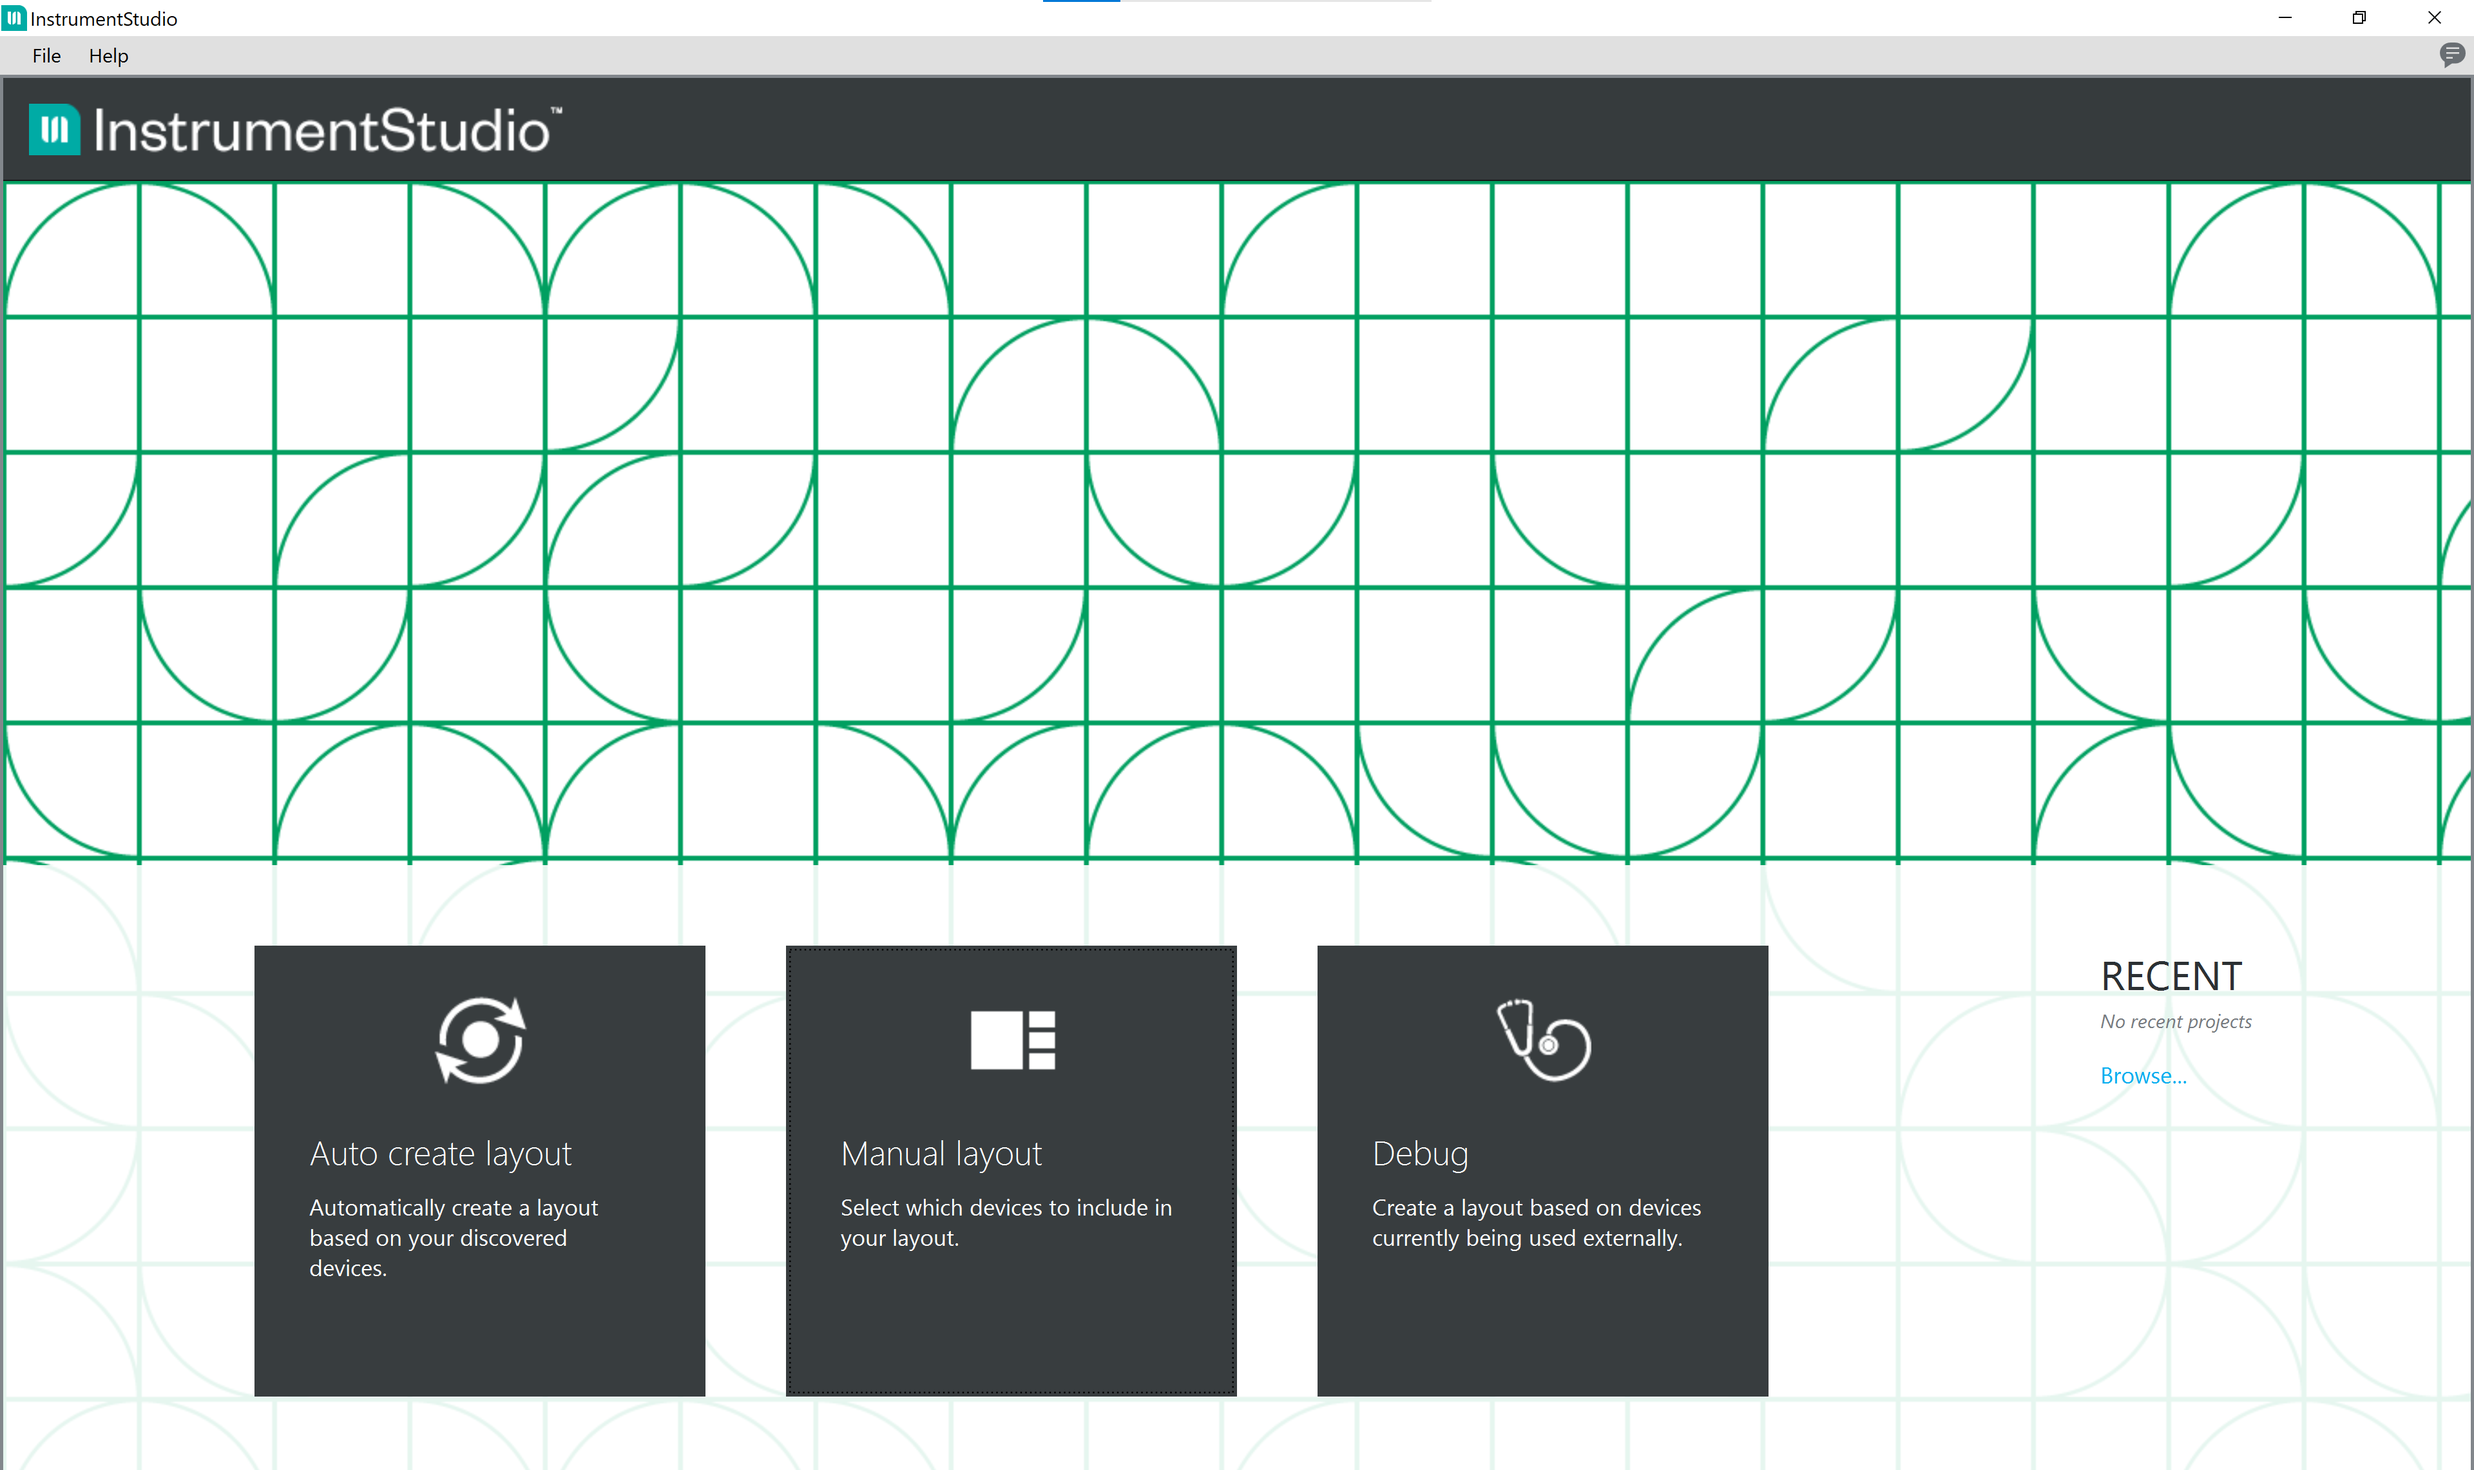
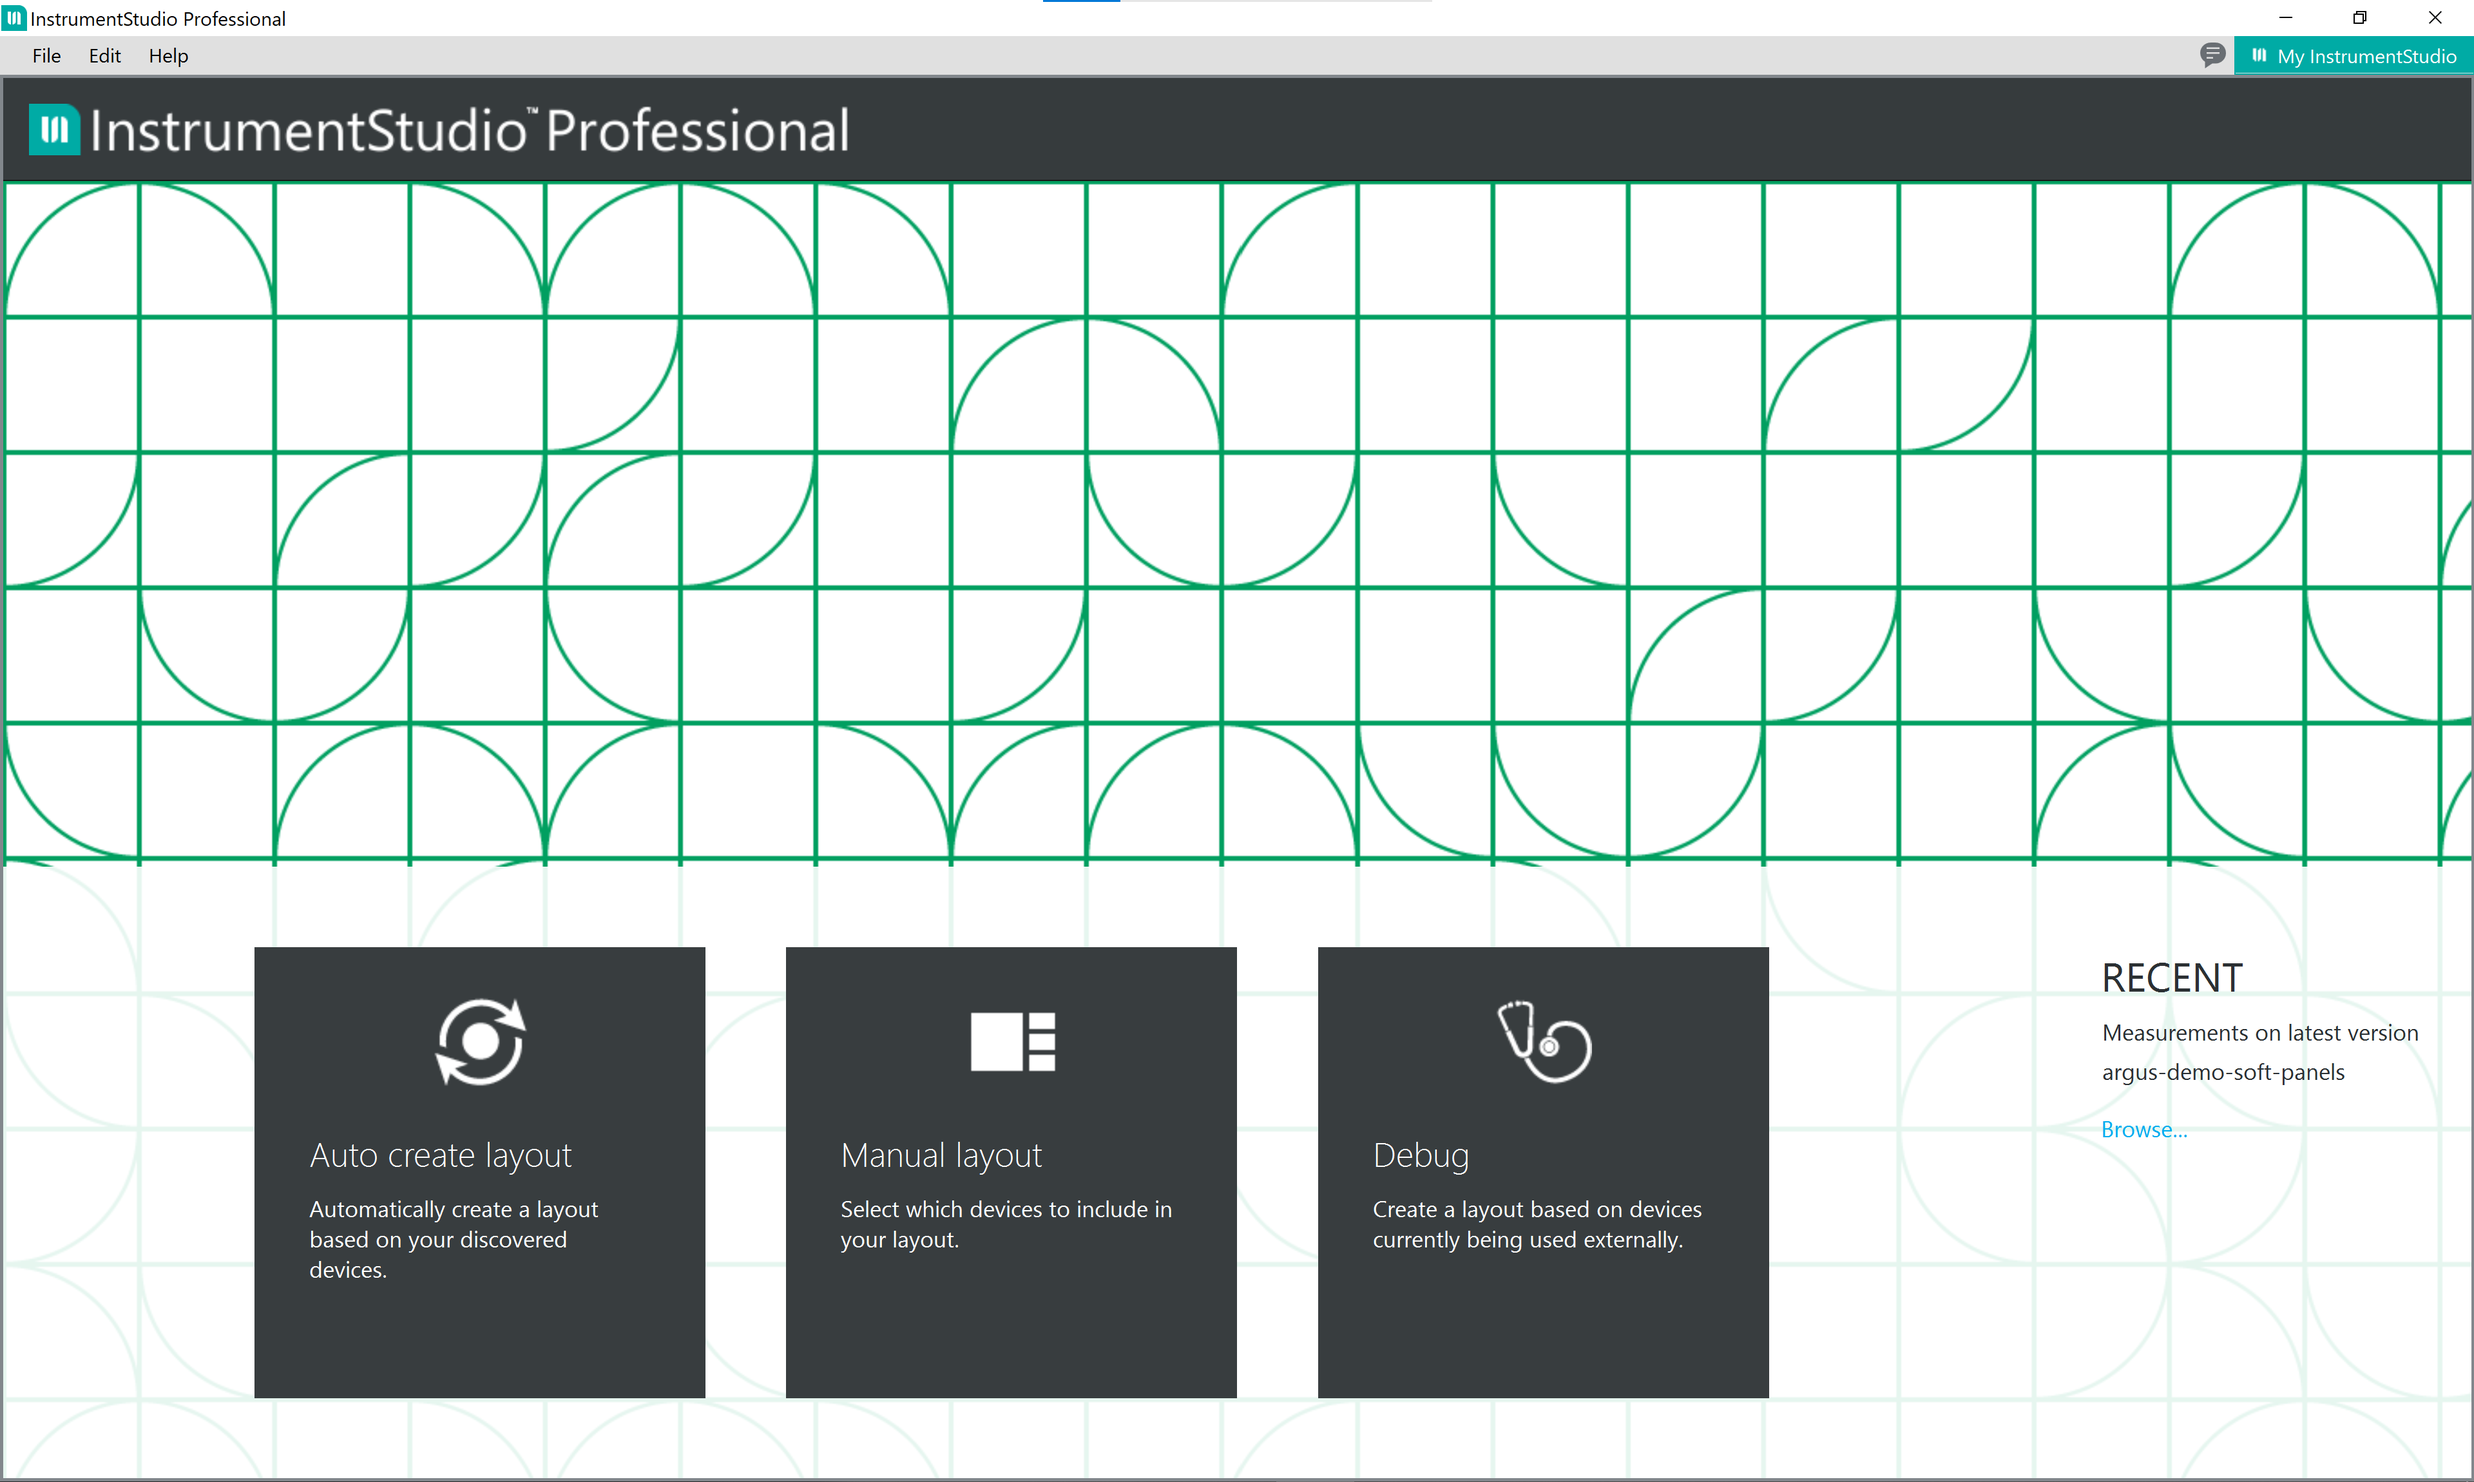
updating documentation

diff --git a/docs/channel-ganging-help.md b/docs/channel-ganging-help.md
@@ -5,7 +5,7 @@ This workflow is applicable for all the Channel Ganging measurements.
 
 ### Adding a measurement panel to InstrumentStudio
 
-1. Open InstrumentStudio
+1. Open InstrumentStudio Pro
    ![alt text](images/instr-studio-open-is.png)
 
 2. Click Manual Layout, and select required measurement under the collection (for e.g., 'Single Point' under PMIC - GANGING/STACKING) and 'Create Large Panel' from dropdown. Click OK.
